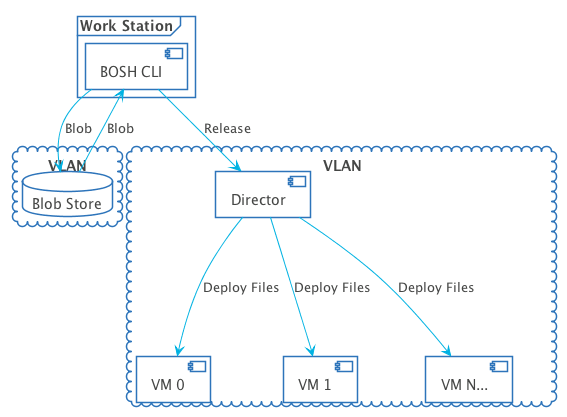
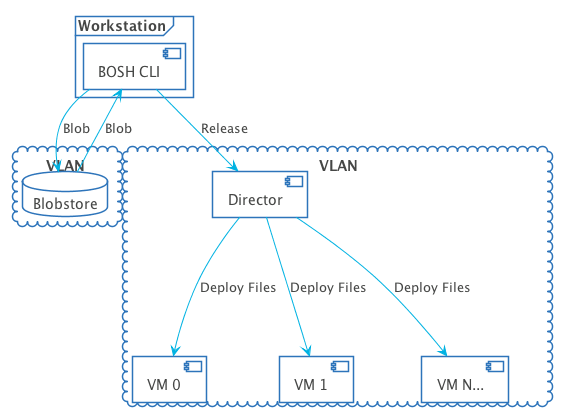
Amend 20190513-bosh-release.md

diff --git a/20190513-bosh-release.md b/20190513-bosh-release.md
@@ -4,7 +4,7 @@ labels: [BOSH, 社内勉強会]
 
 # BOSH Release概要
 
-私の働いているチームでは日時での勉強会を行っている。だいたい週に1度ほど自分のターンが回ってくる。その勉強会での発表資料を兼ね、BOSHのReleaseについて解説しようと思う。
+私の働いているチームでは、20分ほどの技術勉強会を日時で行っている。持ち回り制で週に1度ほど自分のターンが回ってくる。その勉強会での発表資料を兼ね、BOSHのReleaseについて解説しようと思う。
 
 ## Releaseとは何か
 
@@ -41,37 +41,56 @@ $ bosh init-release
 
 ## Releaseの構成要素
 
+Releaseは以下の各構成要素より成り立つ。
+
 ### Job
 
-Releaseに含まれるサービス（アプリケーション）のこと。jobs/ディレクトリに起動・停止スクリプト及び、設定ファイルとして記述する。init.dやsystemctlでのserviceの概念が近い。
+Releaseに含まれるサービス（アプリケーション）のこと。jobs/ディレクトリに起動・停止・監視スクリプト及び、設定ファイルから定義される。init.dやsystemctlでのserviceの概念が近い。
 
 ### Package
 
-Releaseに含まれるパッケージ定義のこと。jobが利用するファイルの生成・インストールを行う。一般のOSでのrpm/aptパッケージなどが担う役割が近い。packages/ディレクトリにインストールスクリプトとして記述する。
+Releaseに含まれるパッケージ定義のこと。Jobが利用するファイルの生成・インストールを行う。一般のOSでのrpm/aptパッケージなどが担う役割が近い。packages/ディレクトリにインストールスクリプトとして記述する。
 
 ### Blob
 
-packageが利用するバイナリファイルのこと。blobstoreと呼ばれるデータベースに登録される。Releaseをビルドする際にblobstoreより取得する。このためReleaseをビルドする前にあらかじめ `bosh upload-blob` によりblobstoreにアップロードしておく。尚、blobstoreにはS3互換のオブジェクトデータベースが用いられることが多い。
+Packageが利用するバイナリファイルのこと。blobstoreと呼ばれるデータベースに登録される。Releaseをビルドする際にblobstoreより取得する。このためReleaseをビルドする前にあらかじめ`bosh upload-blob`によりblobstoreにアップロードしておく。尚、blobstoreにはS3互換のオブジェクトストレージが用いられる。
 
 ### Source
 
-packageが利用するソースコードやテキストファイルのこと。blobと異なりReleaseプロジェクト自身にコミットしておくことが一般的。
+packageが利用するソースコードやテキストファイルのこと。blobと異なりReleaseプロジェクト自身にコミットしておくのが一般的。
 
-## Deploymentとの関係
+## Releaseの種類
+ 
+production環境にデプロイするためのReleaseはFinal Releaseと呼ぶ。一方開発用途としてDev Releaseが存在する。Dev ReleaseのFinal Releaseとの違いは以下である。
 
-Releaseの扱う構成管理の範囲は1VM内部に限定されている。一方、Deploymentの方がより上位の範囲を扱う。
-具体的には、Releaseは、1VM内部で動くジョブ（プロセス）レベルの構成管理が中心である。一方、Deploymentは、VMインスタンス数や、VMに適用するイメージ、そしてVMにデプロイするReleaseなどVM
-レベルの構成管理が中心である。
+- `bosh create-release`ではなく`bosh create-release --force`で作成する
+- Releaseプロジェクトがuncommittedでも`create-release`できる
+- blobを`bosh add-blob`しておくことでblobstoreにアップロードせずにdeploy可能
+
+## ReleaseとDeploymentの違い
+
+Releaseの扱う構成管理の範囲は1VM内部に限定されている。一方、Deploymentはより上位の範囲を扱う。
+具体的には、Releaseは、1VM内部で動くサービス（プロセス）レベルの構成管理が中心である。一方、Deploymentは、VMインスタンス数や、VMに適用するイメージ、そしてVMにデプロイするReleaseなどVM
+レベルでの構成管理が中心である。
 
 ## Releaseをデプロイするまでの作業フロー
 
+大まかな作業は以下である。
+
 1. `bosh init-release`でプロジェクトテンプレート作成
 2. プロジェクトを編集
-3. 必要なblobを `bosh upload-blob` でblobstoreにアップロード
-4. Releaseを `bosh create-release` でビルド
+3. 必要なblobを`bosh upload-blob`でblobstoreにアップロード
+4. Releaseを`bosh create-release`でビルド
 5. Deployment manifestにReleaseを指定する
 6. `bosh deploy`
 
-複雑なReleaseを作る場合、一気通貫で1~6を実施するのは現実的ではない。小さく作りながら上記を何サイクルも繰り返すのが良い。
+複雑なReleaseを作る場合、一気通貫で1~6を実施するのは現実的でない。小さく作りながら上記を何サイクルも繰り返すのが良い。またRelease開発時は効率化のため、前述のDev Release作成が推奨される。
+
+
+## Releaseのデータフロー
+
+![](https://dl.dropboxusercontent.com/s/qm455ir88rngdws/20190513-bosh-release.png?dl=0)
 
 ## 参考資料
+
+- [Creating a Release - Cloud Foundry BOSH](https://bosh.io/docs/create-release/)
